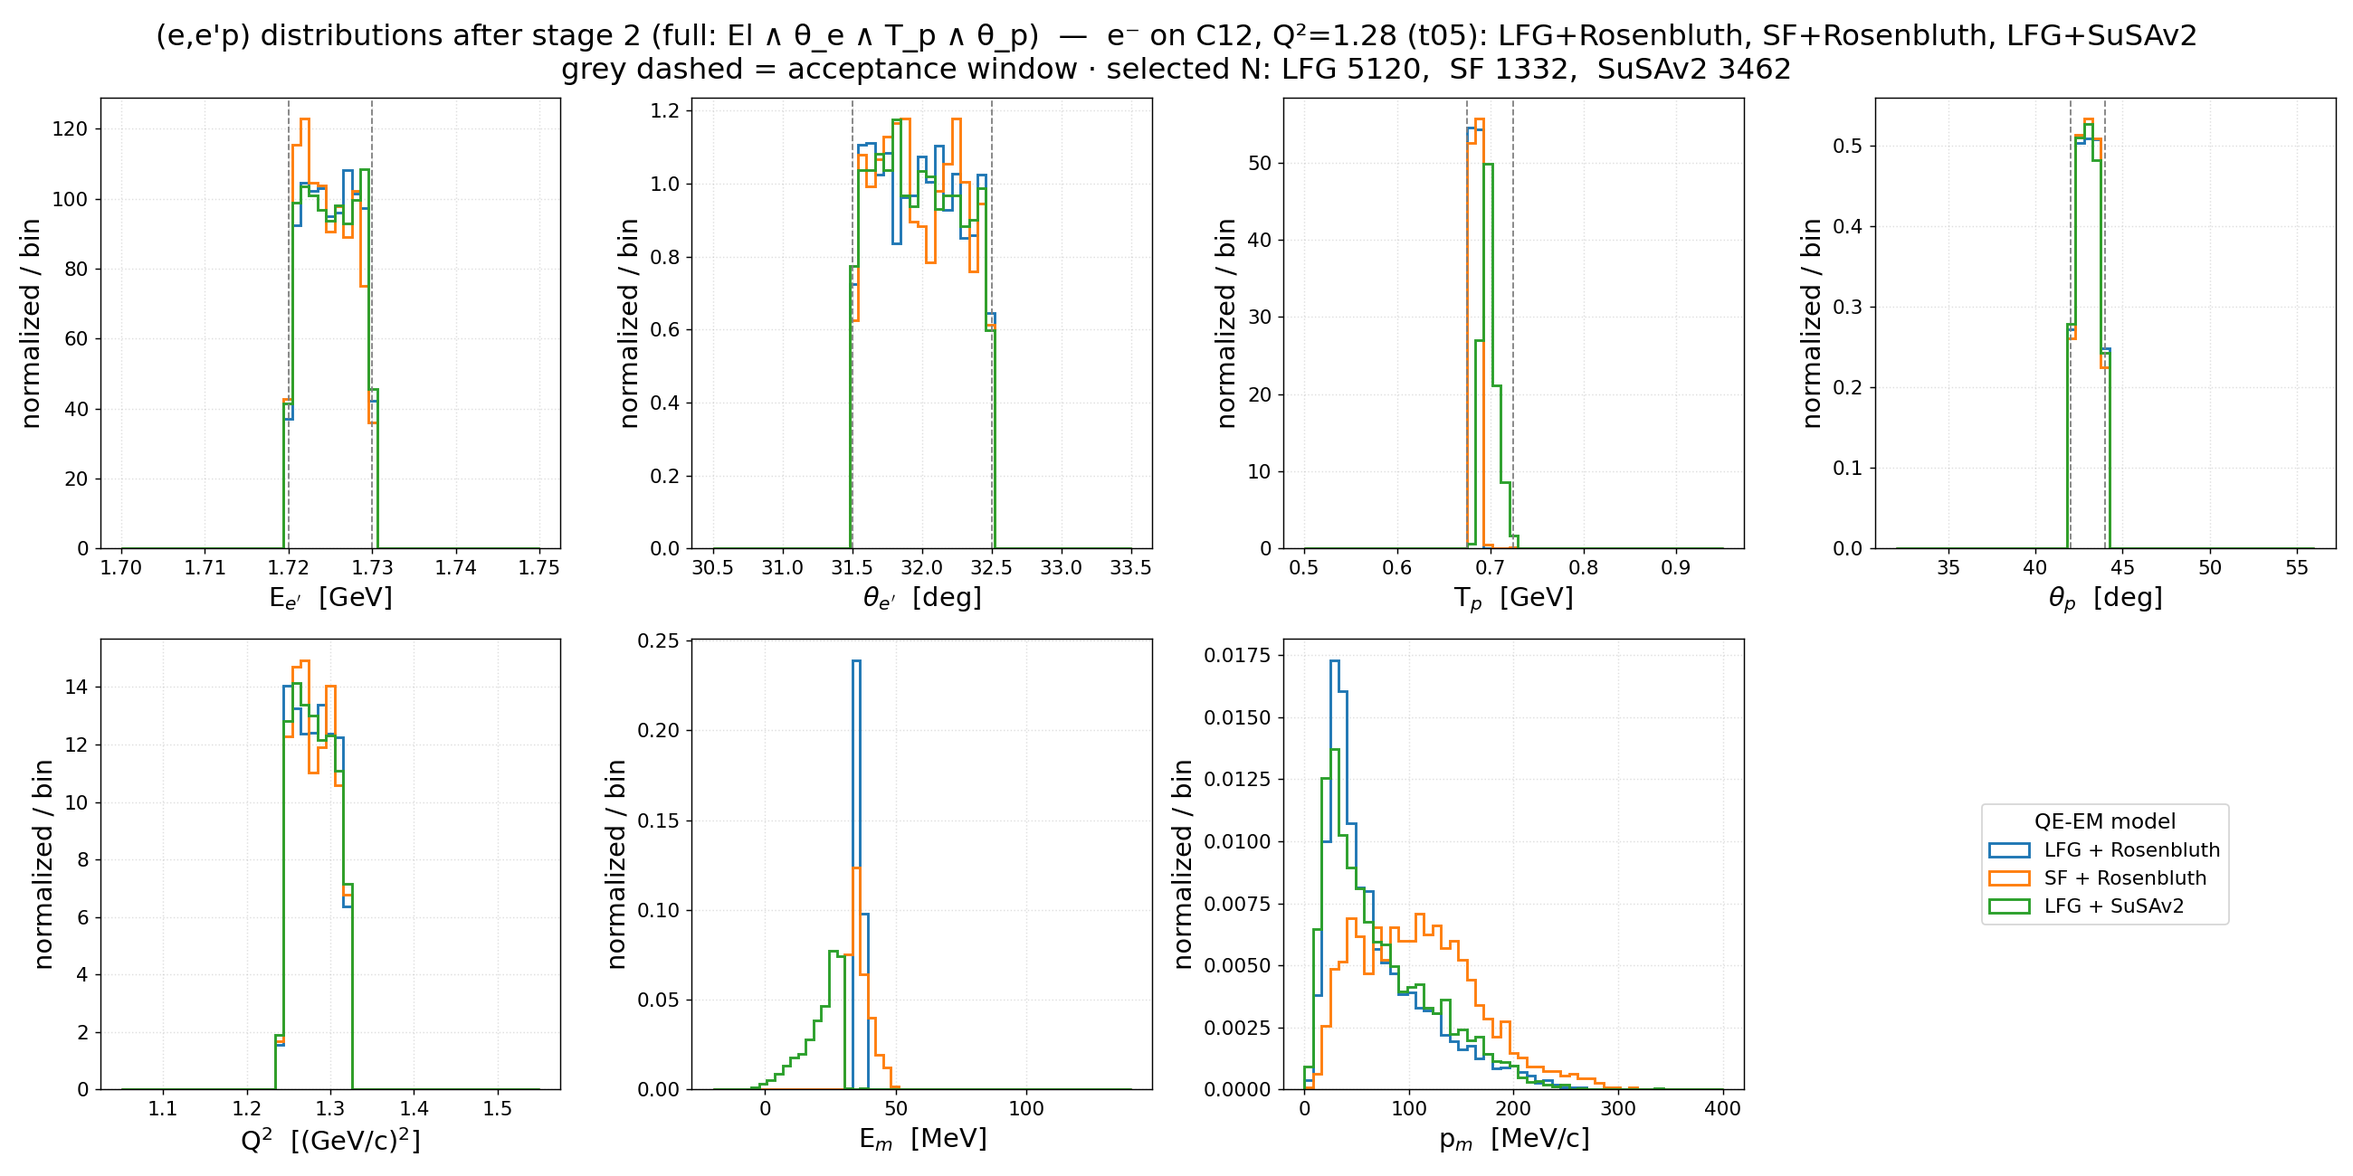
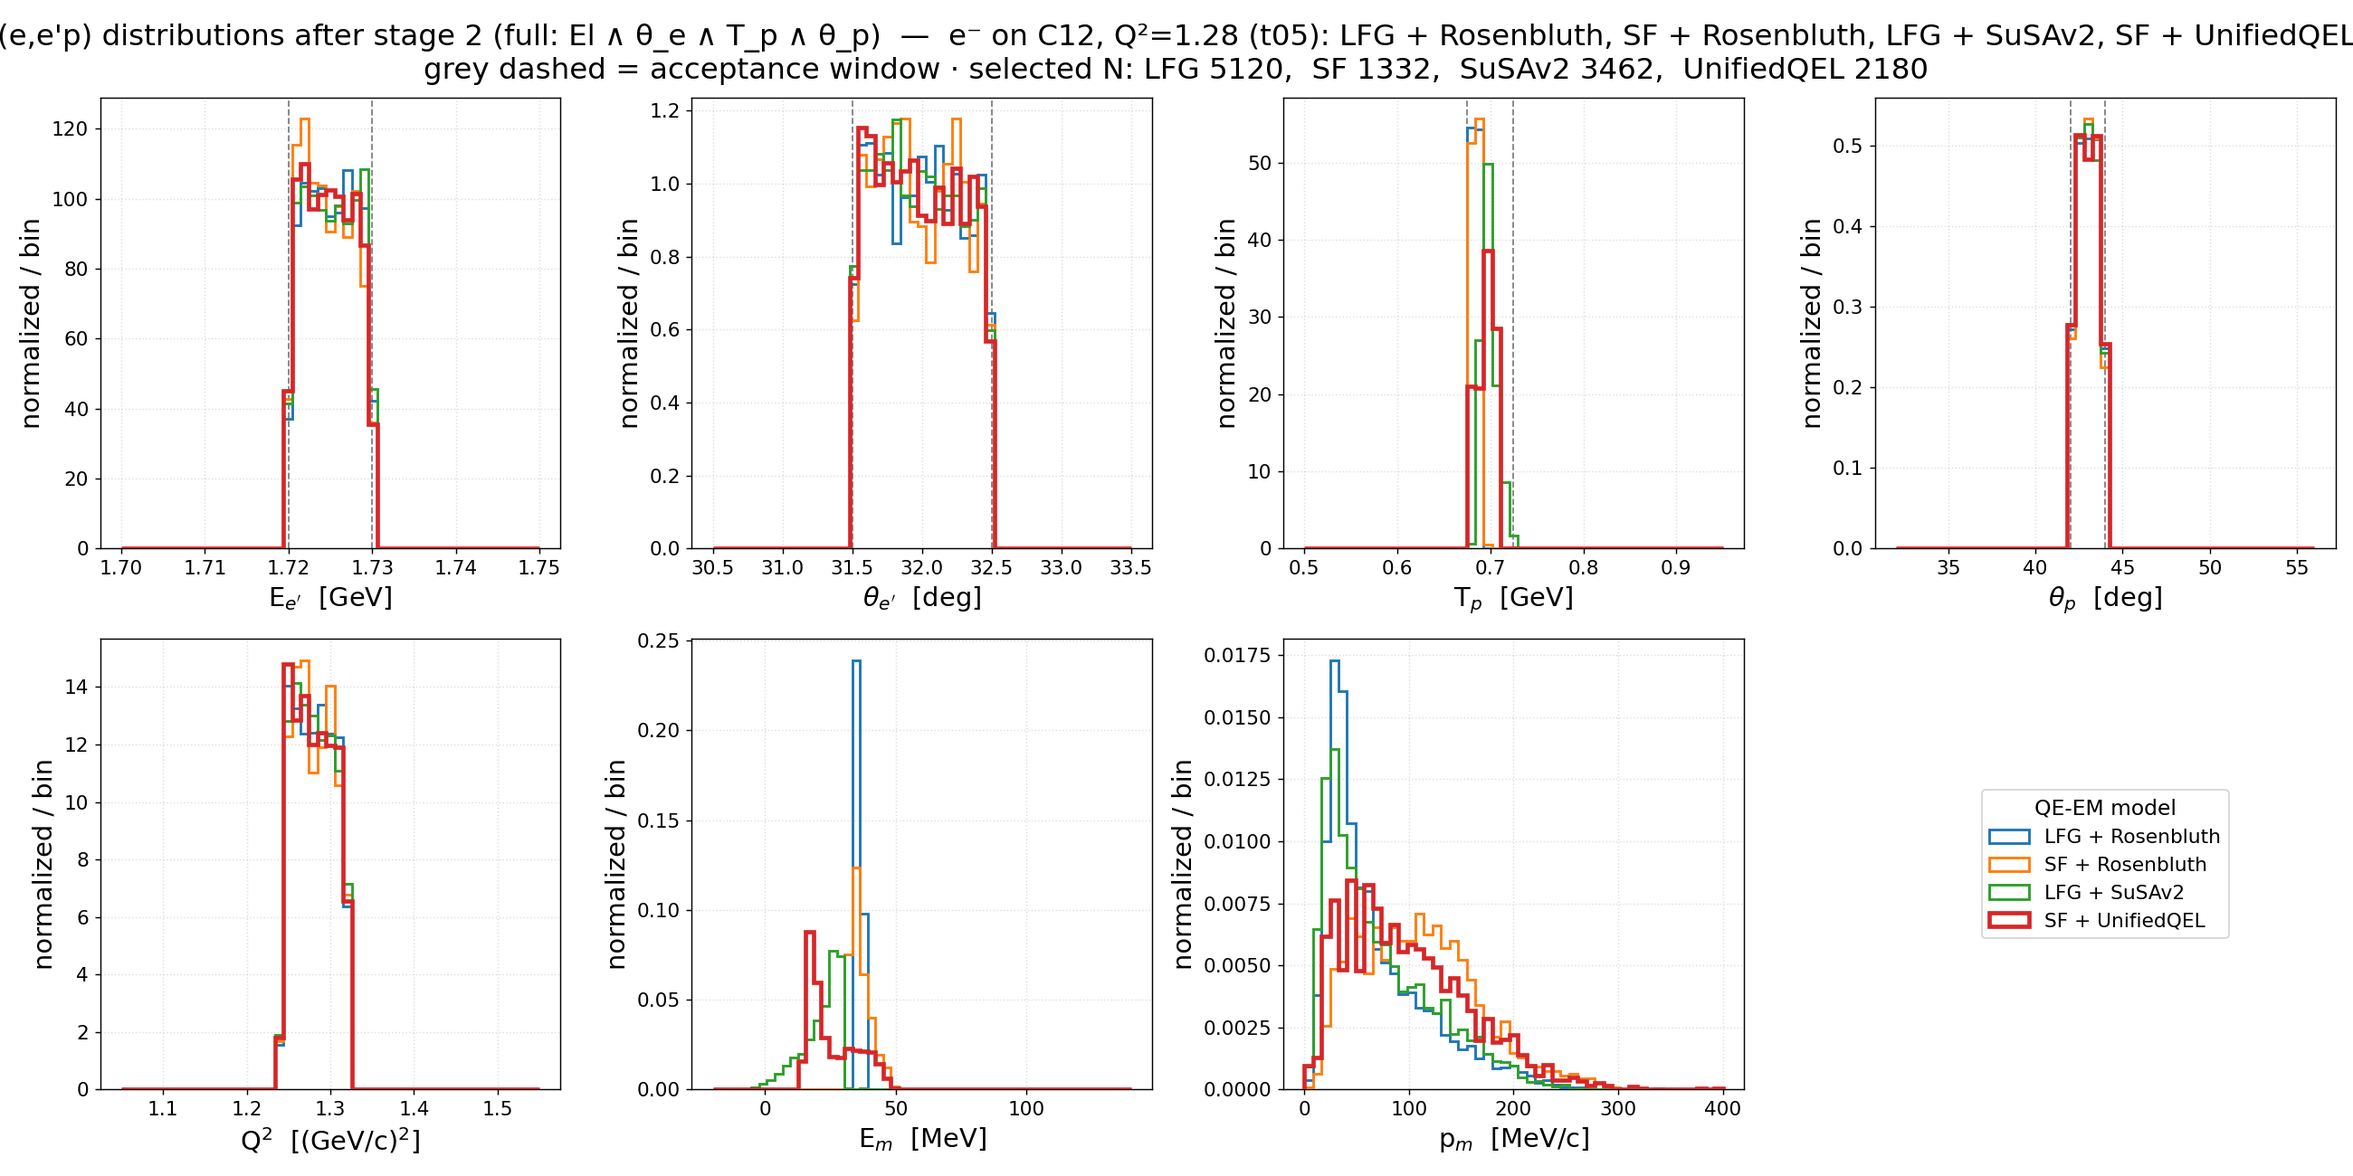
results/prd-analyzer: overlay Variant 05 (SF+UnifiedQEL) on top of every figure
Add GEM26_22b_05_000 (SF ground state + SF-consistent UnifiedQEL cross
section) as the 4th QE-EM model at the Q2=1.28 / 2.445 GeV Dutta setting,
streamed off dCache over XRootD (10M events -> 41697 stage-1 / 2180 stage-2).
It is the focus model (HIGHLIGHT): drawn on top with a thick C3 line in every
plot. Completes the comparison matrix -- SF+Rosenbluth vs SF+UnifiedQEL (22a vs
22b) isolates the QE-EM cross-section model at fixed Benhar SF ground state.

- samples.py: UnifiedQEL entry + MODELS/HIGHLIGHT + lw()/zorder() helpers
- plot_dists.py, plot_missing.py: highlight (thick line, high zorder) on top;
  titles derive the model list
- plot_2d.py: grid widened to 4 columns
- README + figures regenerated; all "3-model" references updated to four

diff --git a/results/prd-analyzer/samples.py b/results/prd-analyzer/samples.py
@@ -1,17 +1,22 @@
-"""XRootD-streamed (e,e'p) samples for the prd-analyzer 3-model comparison.
+"""XRootD-streamed (e,e'p) samples for the prd-analyzer 4-model comparison.
 
 Three quasi-elastic EM models on C12 at E_beam = 2.445 GeV, generation cut `_05`
 (EM-MinQ2Limit = 1.18 GeV^2, so Q^2 >= 1.18 brackets the Q^2 = 1.28 spectrometer
 setting). Each sample is ~10M events; instead of pre-pulling the grid output, we
 **stream the gst files straight off dCache over XRootD** (root://).
 
-    key      tune              config (ground state + QE-EM)      install        files
-    LFG      GEM26_11a_05_000  LFG + Rosenbluth                   genie_inclxx   100 x 100k
-    SF       GEM26_22a_05_000  SF  + Rosenbluth                   genie_inclxx   100 x 100k
-    SuSAv2   GEM21_11a_05_000  LFG + SuSAv2 (HybridXSecAlgorithm)  genie_dev       20 x 500k
+    key         tune              config (ground state + QE-EM)      install        files
+    LFG         GEM26_11a_05_000  LFG + Rosenbluth                   genie_inclxx   100 x 100k
+    SF          GEM26_22a_05_000  SF  + Rosenbluth                   genie_inclxx   100 x 100k
+    SuSAv2      GEM21_11a_05_000  LFG + SuSAv2 (HybridXSecAlgorithm)  genie_dev       20 x 500k
+    UnifiedQEL  GEM26_22b_05_000  SF  + UnifiedQEL (SF-consistent)   genie_inclxx   100 x 100k
 
 The clean axes: LFG vs SF isolates the ground state (both Rosenbluth); LFG vs SuSAv2
-isolates the QE-EM cross section (both Local Fermi Gas).
+isolates the QE-EM cross section (both Local Fermi Gas); SF vs UnifiedQEL isolates the
+QE-EM cross-section model at fixed SF ground state (both Benhar spectral function).
+
+`UnifiedQEL` is "Variant 05" — the focus model (`HIGHLIGHT`), drawn on top and
+emphasized in every plot.
 
 The file *listing* is a local NFS metadata read of the /pnfs dir; the event DATA
 is streamed over XRootD. dCache auth needs a valid bearer token: export
@@ -36,8 +41,14 @@ SAMPLES = {
     "SuSAv2": ("LFG + SuSAv2", "C2",
                f"{_PNFS_ROOT}/genie_dev/GEM21_11a_05_000/"
                "eminus_C12_20260601-153754_gev/11_1000060120_GEM21_11a_05_000"),
+    "UnifiedQEL": ("SF + UnifiedQEL", "C3",
+                   f"{_PNFS_ROOT}/genie_inclxx/GEM26_22b_05_000/"
+                   "eminus_C12_20260604-103343_gev/11_1000060120_GEM26_22b_05_000"),
 }
-MODELS = ["LFG", "SF", "SuSAv2"]      # canonical legend / column order
+# Canonical order; UnifiedQEL (Variant 05) is appended last so it is drawn on top in
+# every overlay. Plots additionally emphasize HIGHLIGHT (thicker line + high zorder).
+MODELS = ["LFG", "SF", "SuSAv2", "UnifiedQEL"]
+HIGHLIGHT = "UnifiedQEL"              # focus model: drawn on top, emphasized everywhere
 CACHE_DIR = "results/prd-analyzer/cache"
 
 
@@ -60,6 +71,16 @@ def label(model):
 
 def color(model):
     return SAMPLES[model][1]
+
+
+def lw(model, base=1.6, boost=1.0):
+    """Line width: the HIGHLIGHT (Variant 05) gets a thicker line so it reads on top."""
+    return base + boost if model == HIGHLIGHT else base
+
+
+def zorder(model):
+    """Draw order: the HIGHLIGHT renders above the other curves regardless of loop order."""
+    return 6 if model == HIGHLIGHT else 3
 
 
 def load_cache(model, cache_dir=CACHE_DIR):

diff --git a/results/prd-analyzer/plot_missing.py b/results/prd-analyzer/plot_missing.py
@@ -6,7 +6,7 @@ E_beam = 2.445 GeV, cut t05 (Q² ≈ 1.28): LFG and SF (Rosenbluth, GEM26_11a/22
 reconstructed (post-FSI) missing energy E_m = ω − T_p and missing momentum p_m = |q⃗ − p⃗_p| in
 the paper windows (E_m ≤ 80 MeV, |p_m| < 300 MeV/c).
 
-Histograms are AREA-NORMALIZED: the three models have different total QE cross sections, so raw
+Histograms are AREA-NORMALIZED: the four models have different total QE cross sections, so raw
 counts are not a fair overlay — the selected event count N (a rate proxy) is shown in the legend.
 Personal plot style (results/template/plot_style.py).
 """
@@ -34,10 +34,10 @@ fig.set_size_inches(11, 5.5)
 axE, axP = axes
 for m in S.MODELS:
     Em, Pm, n = data[m]
-    axE.hist(Em, bins=EBINS, histtype="step", linewidth=1.8, color=S.color(m),
-             density=True, label=f"{S.label(m)}  (N={n})")
-    axP.hist(Pm, bins=PBINS, histtype="step", linewidth=1.8, color=S.color(m),
-             density=True, label=f"{S.label(m)}  (N={n})")
+    axE.hist(Em, bins=EBINS, histtype="step", linewidth=S.lw(m, base=1.8), color=S.color(m),
+             density=True, label=f"{S.label(m)}  (N={n})", zorder=S.zorder(m))
+    axP.hist(Pm, bins=PBINS, histtype="step", linewidth=S.lw(m, base=1.8), color=S.color(m),
+             density=True, label=f"{S.label(m)}  (N={n})", zorder=S.zorder(m))
 style_axis(axE, title="missing energy", xlabel=r"E$_m$ = ω − T$_p$  [MeV]",
            logx=False, logy=False, ymin=None)
 style_axis(axP, title="missing momentum", xlabel=r"p$_m$ = |q⃗ − p⃗$_p$|  [MeV/c]",

diff --git a/results/prd-analyzer/plot_dists.py b/results/prd-analyzer/plot_dists.py
@@ -42,8 +42,8 @@ def make_fig(out, use_stage2, stage_label):
             c, s2 = data[m]
             x = c[key][s2] if use_stage2 else c[key]
             x = x[np.isfinite(x)]
-            ax.hist(x, bins=bins, histtype="step", linewidth=1.6, color=S.color(m),
-                    density=True, label=S.label(m))
+            ax.hist(x, bins=bins, histtype="step", linewidth=S.lw(m), color=S.color(m),
+                    density=True, label=S.label(m), zorder=S.zorder(m))
         if cutkey:                                   # mark the acceptance window
             cc, hw = sel.CUTS[cutkey]
             for v in (cc - hw, cc + hw):
@@ -56,7 +56,8 @@ def make_fig(out, use_stage2, stage_label):
     axes[7].legend(handles, labels, title="QE-EM model", loc="center",
                    fontsize=FS_LEGEND, title_fontsize=FS_LEGEND_TITLE)
     ns = {m: (int(data[m][1].sum()) if use_stage2 else len(data[m][0]["El"])) for m in S.MODELS}
-    fig.suptitle(f"(e,e'p) distributions after {stage_label}  —  e⁻ on C12, Q²=1.28 (t05): LFG+Rosenbluth, SF+Rosenbluth, LFG+SuSAv2\n"
+    models_str = ", ".join(S.label(m) for m in S.MODELS)
+    fig.suptitle(f"(e,e'p) distributions after {stage_label}  —  e⁻ on C12, Q²=1.28 (t05): {models_str}\n"
                  "grey dashed = acceptance window · selected N: "
                  + ",  ".join(f"{m} {ns[m]}" for m in S.MODELS),
                  fontsize=FS_SUPTITLE)

diff --git a/results/prd-analyzer/plot_2d.py b/results/prd-analyzer/plot_2d.py
@@ -21,8 +21,8 @@ for m in S.MODELS:
     data[m] = (c["p_miss"], c["E_miss"], c["stage2"].astype(bool))
 
 apply_style()
-fig, axes = new_panels(ncols=3, nrows=2, sharey=False)
-fig.set_size_inches(16.5, 10)
+fig, axes = new_panels(ncols=len(S.MODELS), nrows=2, sharey=False)
+fig.set_size_inches(5.5 * len(S.MODELS), 10)
 
 cells = []
 for use_stage2, slabel in [(False, "stage 1"), (True, "stage 2")]:
@@ -39,7 +39,8 @@ for ax, (title, pm, em, mask) in zip(axes, cells):
     ax.tick_params(labelsize=FS_TICK)
     fig.colorbar(h[3], ax=ax, label="events / bin")
 
-fig.suptitle("(e,e'p) 2D missing energy vs momentum — e⁻ on C12, Q²=1.28 (t05): LFG+Rosenbluth, SF+Rosenbluth, LFG+SuSAv2\n"
+models_str = ", ".join(S.label(m) for m in S.MODELS)
+fig.suptitle(f"(e,e'p) 2D missing energy vs momentum — e⁻ on C12, Q²=1.28 (t05): {models_str}\n"
              "row 1 = stage 1 (electron cut),  row 2 = stage 2 (full coincidence)",
              fontsize=FS_SUPTITLE)
 fig.tight_layout()

diff --git a/results/prd-analyzer/README.md b/results/prd-analyzer/README.md
@@ -4,17 +4,20 @@ Analysis of the GENIE C12 EMQE grid samples against the Hall C **E91-013** quasi
 (e,e′p) measurement ([nucl-ex/0303011](../../papers/nucl-ex_0303011/paper_nucl-ex_0303011.md)).
 Targets **Table I row 5** — the **Q² = 1.28 GeV²** spectrometer setting at E_beam = 2.445 GeV —
 applying the HMS/SOS acceptance cuts and comparing missing energy / missing momentum to the
-paper's Figs 9/10 across **three QE-EM models**:
+paper's Figs 9/10 across **four QE-EM models**:
 
 | model | tune | QE-EM cross section + ground state | install |
 |-------|------|------------------------------------|---------|
 | **LFG + Rosenbluth** | `GEM26_11a_05_000` | Rosenbluth + Local Fermi Gas          | genie_inclxx |
 | **SF + Rosenbluth**  | `GEM26_22a_05_000` | Rosenbluth + Benhar Spectral Function | genie_inclxx |
 | **LFG + SuSAv2**     | `GEM21_11a_05_000` | SuSAv2-QEL + Local Fermi Gas (`HybridXSecAlgorithm`) | genie_dev |
+| **SF + UnifiedQEL** *(Variant 05, focus model)* | `GEM26_22b_05_000` | UnifiedQEL (SF-consistent) + Benhar Spectral Function | genie_inclxx |
 
-Two clean axes: **LFG vs SF** (rows 1↔2) isolates the **ground state** at fixed Rosenbluth
-cross section; **LFG+Rosenbluth vs LFG+SuSAv2** (rows 1↔3) isolates the **QE-EM cross section**
-at fixed Local Fermi Gas ground state.
+Three clean axes: **LFG vs SF** isolates the **ground state** at fixed Rosenbluth cross section;
+**LFG+Rosenbluth vs LFG+SuSAv2** isolates the **QE-EM cross section** at fixed Local Fermi Gas;
+**SF+Rosenbluth vs SF+UnifiedQEL** isolates the **QE-EM cross-section model** at fixed Benhar
+spectral-function ground state. **SF + UnifiedQEL (Variant 05)** is the focus model — drawn on
+top and emphasized (thick C3 line) in every figure.
 
 Each is ~10M `e⁻`-on-C12 events at generation cut **t05** (EM-MinQ2Limit = 1.18 GeV², so Q² ≥ 1.18
 brackets the Q² = 1.28 setting). The samples are **streamed straight off dCache over XRootD** — no
@@ -26,7 +29,7 @@ Rosenbluth samples with `genie_inclxx` (a build difference to bear in mind).
 The grid gst lives on `/pnfs` (~6–9 GB/model). Instead of pulling it, the analysis streams it over
 XRootD and caches only the tiny selected subset:
 
-1. **`samples.py`** — the 3-model registry. Maps `/pnfs/dune/…` →
+1. **`samples.py`** — the 4-model registry. Maps `/pnfs/dune/…` →
    `root://fndca1.fnal.gov:1094//pnfs/fnal.gov/usr/dune/…` (dCache namespace) and lists each
    model's gst URLs (`gst_urls(model)`).
 2. **`build_cache.py`** — streams every gst over XRootD, applies the stage-1 (electron-arm)
@@ -34,13 +37,13 @@ XRootD and caches only the tiny selected subset:
    mask + total event count). Needs a dCache token:
    ```bash
    export BEARER_TOKEN_FILE=<token>          # refresh with: htgettoken -i dune
-   pixi run python results/prd-analyzer/build_cache.py        # ~5 min, 30M events
+   pixi run python results/prd-analyzer/build_cache.py        # ~7 min, 40M events
    ```
    Re-run only when the sample list or selection changes.
 3. **`plot_*.py`** — read the cache (instant) and draw the figures.
 
 Streaming needs `xrootd` + `fsspec-xrootd` in the pixi env (uproot opens `root://` directly).
-Because the three models have **different total QE cross sections**, the 1D overlays are
+Because the four models have **different total QE cross sections**, the 1D overlays are
 **area-normalized** (shape comparison); the selected count `N` — a rate proxy — is in each legend.
 
 ## Selection & cuts
@@ -90,12 +93,17 @@ Acceptance is tight: ~0.4 % of events survive stage 1, ~0.01–0.05 % stage 2 (w
 ![missing energy and momentum](missing_e_p_q2_1.28.png)
 
 Reconstructed `E_m = ω − T_p` and `p_m = |q⃗ − p⃗_p|` after the full (e,e′p) selection
-(N = 5120 LFG / 1332 SF / 3462 SuSAv2, from 10M each). **LFG** is a sharp removal-energy spike
-(~36 MeV) with a low-`p_m` peak; **SF** is a broad removal-energy distribution (~30–50 MeV) reaching
-out to a high-`p_m` shoulder (~120 MeV/c) — the spectral function's `P(k,E)` tail; **SuSAv2** peaks
-*lower* in `E_m` (~28 MeV) with a soft tail to zero, and a low-`p_m` shape closer to LFG. At fixed
-luminosity (SF and LFG share the Rosenbluth σ) LFG keeps **3.8×** more coincidences than SF — Fermi
-smearing pushes SF protons out of the tight HMS window.
+(N = 5120 LFG / 1332 SF / 3462 SuSAv2 / **2180 SF+UnifiedQEL**, from 10M each). **LFG** is a sharp
+removal-energy spike (~36 MeV) with a low-`p_m` peak; **SF** is a broad removal-energy distribution
+(~30–50 MeV) reaching out to a high-`p_m` shoulder (~120 MeV/c) — the spectral function's `P(k,E)`
+tail; **SuSAv2** peaks *lower* in `E_m` (~28 MeV) with a soft tail to zero, and a low-`p_m` shape
+closer to LFG. **SF + UnifiedQEL (Variant 05, thick red, on top)** peaks markedly *lower* in `E_m`
+(~15–20 MeV) with a broad low-energy shoulder — the SF-consistent (CBF) cross section reshapes the
+removal-energy distribution relative to factorized SF+Rosenbluth at the *same* Benhar ground state,
+while its `p_m` shape tracks SF (both spectral-function). That contrast (`22a` ↔ `22b`) isolates the
+QE-EM cross-section model at fixed SF ground state. At fixed luminosity (SF and LFG share the
+Rosenbluth σ) LFG keeps **3.8×** more coincidences than SF — Fermi smearing pushes SF protons out of
+the tight HMS window.
 
 ### 2. Cut-stage distributions
 
@@ -104,26 +112,28 @@ smearing pushes SF protons out of the tight HMS window.
 ![stage 1 distributions](dists_stage1_electron.png)
 
 `El`, `θ_e` sit in their windows and **Q² is pinned at ~1.28** (the electron arm fixes it), while
-`T_p`, `θ_p`, `E_m`, `p_m` are still free/broad (N = 47443 LFG / 39559 SF / 39866 SuSAv2). Grey
-dashed = the acceptance windows (not yet applied to `T_p`/`θ_p` here).
+`T_p`, `θ_p`, `E_m`, `p_m` are still free/broad (N = 47443 LFG / 39559 SF / 39866 SuSAv2 /
+41697 SF+UnifiedQEL). Grey dashed = the acceptance windows (not yet applied to `T_p`/`θ_p` here).
 
 **Stage 2 — full coincidence (`El ∧ θ_e ∧ T_p ∧ θ_p`):**
 
 ![stage 2 distributions](dists_stage2_full.png)
 
 All four cut variables are clamped to their windows, leaving the residual `Q²`, `E_m`, `p_m`
-(N = 5120 / 1332 / 3462) — the model differences surviving the spectrometer bite.
+(N = 5120 / 1332 / 3462 / 2180) — the model differences surviving the spectrometer bite.
 
 ### 3. 2D missing energy vs momentum (stage × model)
 
 ![2D E_m vs p_m](missing_2d_e_vs_p.png)
 
-`p_m` vs `E_m`, rows = stage 1 / stage 2, columns = LFG / SF / SuSAv2. **SF and SuSAv2 show the
-`(E_m, p_m)` ridge** — removal energy rising with missing momentum, the `P(k,E)` correlation — while
+`p_m` vs `E_m`, rows = stage 1 / stage 2, columns = LFG / SF / SuSAv2 / SF+UnifiedQEL (Variant 05,
+rightmost). **SF, SuSAv2 and SF+UnifiedQEL show the `(E_m, p_m)` ridge** — removal energy rising with
+missing momentum, the `P(k,E)` correlation (the two SF models share the Benhar ground state) — while
 **LFG is a flat fixed-removal-energy band**, independent of `p_m`.
 
 ## Scripts
-- **`samples.py`** — 3-model registry; `xrootd_url()`, `gst_urls(model)`, `load_cache(model)`.
+- **`samples.py`** — 4-model registry; `xrootd_url()`, `gst_urls(model)`, `load_cache(model)`,
+  `lw(model)`/`zorder(model)` (the `HIGHLIGHT` = Variant 05 gets a thick line, drawn on top).
 - **`build_cache.py`** — XRootD stream + stage-1 selection → `cache/<model>.npz`.
 - **`selection.py`** — shared selection + missing-kinematics util (unchanged; `load_events(path)`
   works on a local path *or* a `root://` URL):
@@ -140,16 +150,17 @@ GENIE gst (post-FSI), `e⁻` on C12, E_beam = 2.445 GeV, cut **t05** (EM-MinQ2Li
 10M events/model, on dCache:
 ```
 /pnfs/dune/scratch/users/liangliu/jobsub-agent/prd_paper/EM/
-  genie_inclxx/GEM26_11a_05_000/eminus_C12_20260602-131202_gev/…   (LFG,    100×100k)
-  genie_inclxx/GEM26_22a_05_000/eminus_C12_20260602-131216_gev/…   (SF,     100×100k)
-  genie_dev/GEM21_11a_05_000/eminus_C12_20260601-153754_gev/…      (SuSAv2,  20×500k)
+  genie_inclxx/GEM26_11a_05_000/eminus_C12_20260602-131202_gev/…   (LFG,        100×100k)
+  genie_inclxx/GEM26_22a_05_000/eminus_C12_20260602-131216_gev/…   (SF,         100×100k)
+  genie_dev/GEM21_11a_05_000/eminus_C12_20260601-153754_gev/…      (SuSAv2,      20×500k)
+  genie_inclxx/GEM26_22b_05_000/eminus_C12_20260604-103343_gev/…   (UnifiedQEL, 100×100k)
 ```
 streamed over XRootD (never copied locally). The narrow spectrometer cuts keep ~0.4 % at stage 1 and
 ~0.01–0.05 % at stage 2, so the full 10M/model is needed for usable statistics.
 
 ## Notes
 - The EMQE samples are pure QEL (the `EMQE` generator list is QEL-EM only), so no RES/DIS split.
-- 1D overlays are **area-normalized** — the three models have different total σ, so raw counts are
+- 1D overlays are **area-normalized** — the four models have different total σ, so raw counts are
   not a fair overlay; the rate information lives in the legend `N` (and the stage-2 efficiencies).
 - `p_m` is the unsigned magnitude (matches the paper); the p-shell dip at `p_m≈0` is the l=1 node.
 - SuSAv2 (`genie_dev`) vs the Rosenbluth pair (`genie_inclxx`) is a cross-build comparison.
